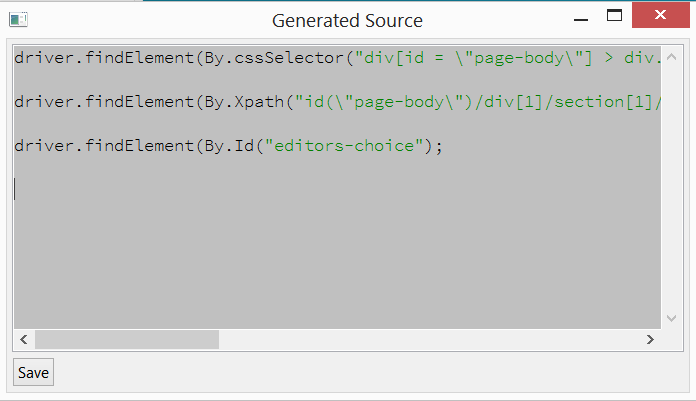
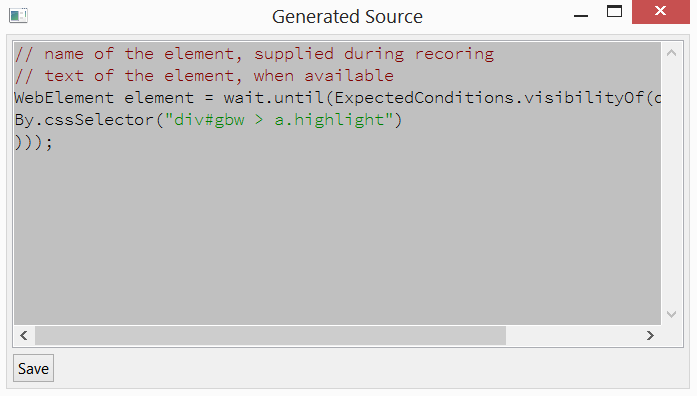
intermediate revision - additional swig tempales

Changed region(s): [[0.0, 0.0, 1.0, 1.0]]

diff --git a/swd_recorder/src/main/java/com/mycompany/app/RenderTemplate.java b/swd_recorder/src/main/java/com/mycompany/app/RenderTemplate.java
@@ -46,8 +46,10 @@ class RenderTemplate {
 	private static HashMap<String, String> createSampleElementData() {
 		HashMap<String, String> elementData = new HashMap<String, String>();
 		elementData.put("ElementId", "id");
-		elementData.put("ElementCodeTemplateName", "gmail link");
+		elementData.put("ElementCodeName", "name of the element, supplied during recoring");
+		elementData.put("ElementText", "text of the element, when available");
 		elementData.put("ElementXPath", "/html//img[1]");
+		elementData.put("ElementVariable", "elementVariable");
 		elementData.put("ElementCssSelector", "div#gbw > a.highlight");
 		elementData.put("ElementSelectedBy", "ElementCssSelector");
 		return elementData;

diff --git a/swd_recorder/src/main/java/com/mycompany/app/ScrolledTextEx.java b/swd_recorder/src/main/java/com/mycompany/app/ScrolledTextEx.java
@@ -95,7 +95,7 @@ class ScrolledTextEx {
 			payload = (String) parent.getData("payload");
 		} else {
 			RenderTemplate template = new RenderTemplate();
-			template.setTemplateName("templates/example2.twig");
+			template.setTemplateName("templates/example3.twig");
 			try {
 				payload = template.renderTest();
 			} catch (Exception e) {

diff --git a/swd_recorder/README.md b/swd_recorder/README.md
@@ -1,9 +1,11 @@
-### Info, goals
+![icon](https://github.com/sergueik/selenium_java/blob/master/swd_recorder/src/main/resources/document_wrench_color.png)
 
-![icon](https://github.com/sergueik/selenium_java/blob/master/swd_recorder/src/main/resources/document_wrench_color.png) Selenium WebDriver Elementor Toolkit (SWET) is a OS-independent successor to the [Selenium WebDriver Page Recorder (SWD)](https://github.com/dzharii/swd-recorder) of
-Dmytro Zharii (and author). SWET is using [Eclipse Standard Widget Toolkit](https://www.eclipse.org/swt/) with third party widgets 
-(currently, [Opal](https://github.com/lcaron/opal) instead of .Net Windows Forms forthe user interface and JTwig template engine instead 
-of Razor for code generation therefore it runs on Windows, Mac or Linux, 32 or 64 bit platforms. 
+### Info
+
+Selenium WebDriver Elementor Toolkit (SWET) is a OS-independent successor to the [Selenium WebDriver Page Recorder (SWD)](https://github.com/dzharii/swd-recorder) of
+Dmytro Zharii (and author). SWET is using [Eclipse Standard Widget Toolkit](https://www.eclipse.org/swt/) with third party widgets
+(currently, [Opal](https://github.com/lcaron/opal) instead of .Net Windows Forms forthe user interface and JTwig template engine instead
+of Razor for code generation therefore it runs on Windows, Mac or Linux, 32 or 64 bit platforms.
 Eventually the full functionality of SWD is to be achieved, also SWET might become an Eclipse plugin.
 SWET is currently alpha quality, it may not be very useful yet, but you can help! Continue reading for info on how to get the dev environment setup.
 
@@ -39,13 +41,13 @@ on Linux or a Mac.
 The runner script downloads those dependency jar(s), that are not hosted on Maven Central repository,
 compiles and packages the project using maven
 and runs the application jar from the `target` directory.
-The runner script can also be used to launch individual forms that have been largely based on 
+The runner script can also be used to launch individual forms that have been largely based on
 examples from the Standard Widget Toolkit study
 project [lshamsutdinov/study_swt](https://github.com/lshamsutdinov/study_swt),
-which in turn is based on SWT examples from Jan Bodnar's [website](zetcode.com) as: 
+which in turn is based on SWT examples from Jan Bodnar's [website](zetcode.com) as:
 
 ```shell
-./run.sh [ConfigFormEx|ScrolledTextEx|ComplexFormEx] 
+./run.sh [ConfigFormEx|ScrolledTextEx|ComplexFormEx]
 ```
 ### Toolbar Buttons
 
@@ -168,15 +170,31 @@ then follow the [Running Selenium Tests in Safari Browser](http://toolsqa.com/se
 
 The code is generated using SWIG templates which look like
 ```
-{% if (ElementSelectedBy == 'ElementCssSelector') -%}
-  driver.findElement(By.cssSelector("{{ ElementCssSelector }}");
+{#
+template: Basic Page Objects (Java)
+#}
+class TestPage (Page) {
+  // {{ ElementText }}
+  {% if (ElementSelectedBy == 'ElementCssSelector') -%}
+  @FindBy( how = How.CSS, using = "{{ ElementCssSelector }}" )
 {% elseif (ElementSelectedBy == 'ElementXPath') -%}
-  driver.findElement(By.Xpath("{{ ElementXPath }}");
+  @FindBy( how = How.XPATH, using = "{{ ElementXPath }}" )
 {% elseif (ElementSelectedBy == 'ElementId') -%}
-  driver.findElement(By.Id("{{ ElementId }}");
+  @FindBy( how = How.ID, using =  "{{ ElementId }}" )
+{% endif -%}
+{% if (ElementVariable != '') -%}
+  private WebElement {{ ElementVariable }};
 {% else -%}
+  private WebElement element;
 {% endif -%}
 ```
+Any language/framework can be supported. The comment
+```
+{#
+template: Basic Page Objects (Java)
+#}
+```
+is reserved for future use, when tester is allowed to provide the path to template during session configuration.
 
 ### Configuration, saving and loading
 
@@ -219,6 +237,7 @@ elements:
     ElementSelectedBy: ElementXPath
     ElementText: Staff Choice Outlook CalDav Synchronizer
     ElementId: ''
+    ElementVariable: userSelectedVariableName
     ElementXPath: id("page-body")/div[1]/section[1]/div[2]/div[2]/section[1]/section[2]/header[1]/h3[1]/a[@href="/projects/outlookcaldavsynchronizer/?source=frontpage&position=1"]
 ```
 
@@ -227,7 +246,7 @@ elements:
 * Testing with Safari and variety of IE / Edge browsers
 * Adding the code generator templates
 * Codebase cleanup
-* Adding Threads to Element Finder button 
+* Adding Threads to Element Finder button
 
 ### Links
 
